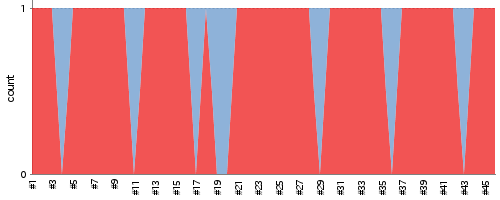
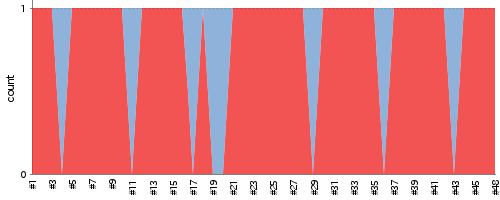
update report

diff --git a/index.md b/index.md
@@ -2,7 +2,7 @@
 layout: default
 ---
 # Jenkins CI report For HRG
-## Build and test report (2015/07/05 15:28:36)
+## Build and test report (2015/07/05 16:28:26)
 ### Build Status
 ___
 ![Build Status](http://jenkinshrg.github.io/images/badge.svg)
@@ -31,12 +31,13 @@ UNSTABLE
 * Stability
   
 ![Jenkins Icon](http://jenkinshrg.github.io/images/48x48/health-00to19.png)
-17%
+16%
   
 * Latest Results
   
 |Status|Time|Duration|Changes|Build|Test|Note|
 |---|---|---|---|---|---|---|
+|![Jenkins Icon](http://jenkinshrg.github.io/images/24x24/yellow.png)UNSTABLE|2015/07/05 16:00|28 min.||[BUILD](https://drive.google.com/file/d/0B54sHwaxmuM4ZTNHWjBYSGRDcEk/view?usp=drivesdk) |[CONSOLE](https://drive.google.com/file/d/0B54sHwaxmuM4UGZLemxkQ3lET1E/view?usp=drivesdk) [IMAGE](https://drive.google.com/file/d/0B54sHwaxmuM4eDg3X0dhX3l5UWM/edit?usp=drivesdk) [VIDEO](https://drive.google.com/file/d/0B54sHwaxmuM4T1RXR0pQRDVtbFU/edit?usp=drivesdk) |STOP NORMAL|
 |![Jenkins Icon](http://jenkinshrg.github.io/images/24x24/yellow.png)UNSTABLE|2015/07/05 15:00|28 min.||[BUILD](https://drive.google.com/file/d/0B54sHwaxmuM4dWhURUJjc0Rka1E/view?usp=drivesdk) |[CONSOLE](https://drive.google.com/file/d/0B54sHwaxmuM4bXZheVhlUkJGQ2s/view?usp=drivesdk) [IMAGE](https://drive.google.com/file/d/0B54sHwaxmuM4UHpIdk5UOTFJeGc/edit?usp=drivesdk) [VIDEO](https://drive.google.com/file/d/0B54sHwaxmuM4czgxbjBmTDdMLWc/edit?usp=drivesdk) |STOP NORMAL|
 |![Jenkins Icon](http://jenkinshrg.github.io/images/24x24/red.png)FAILURE|2015/07/05 14:00|6 min.|||| |
 |![Jenkins Icon](http://jenkinshrg.github.io/images/24x24/yellow.png)UNSTABLE|2015/07/05 13:00|28 min.||[BUILD](https://drive.google.com/file/d/0B54sHwaxmuM4dG9Cc3hrU1hiWWs/view?usp=drivesdk) |[CONSOLE](https://drive.google.com/file/d/0B54sHwaxmuM4TjVOaUdHN0NVbjg/view?usp=drivesdk) [IMAGE](https://drive.google.com/file/d/0B54sHwaxmuM4V1MzMXh6SGl0WlU/edit?usp=drivesdk) [VIDEO](https://drive.google.com/file/d/0B54sHwaxmuM4U0JoeDRtemktQlU/edit?usp=drivesdk) |STOP NORMAL|
